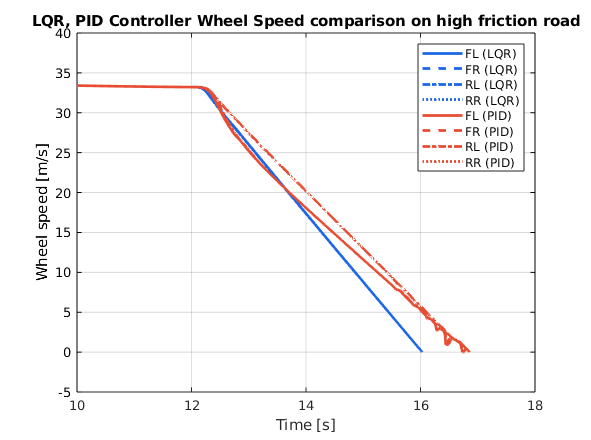
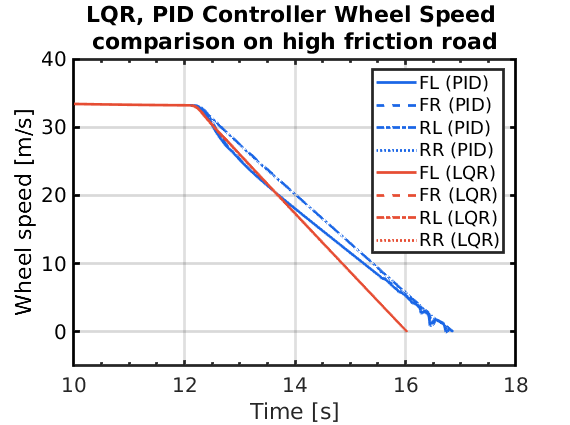
fixed PID,LQR comparison

diff --git a/NIKHIL_DATA/result.m b/NIKHIL_DATA/result.m
@@ -99,39 +99,39 @@ for i = 1:size(files,2)
 end
 
 %% mu-comparison
-% W_Controller_1mu_Straight
-FL_W = data{4}.data(:,1)*0.32;
-FR_W = data{4}.data(:,2)*0.32;
-RL_W = data{4}.data(:,3)*0.32;
-RR_W = data{4}.data(:,4)*0.32;
 % PID_1mu
-FL_PID = data{7}.data(:,1)*0.32;
-FR_PID = data{7}.data(:,2)*0.32;
-RL_PID = data{7}.data(:,3)*0.32;
-RR_PID = data{7}.data(:,4)*0.32;
+FL_PID = data{4}.data(:,1)*0.32;
+FR_PID = data{4}.data(:,2)*0.32;
+RL_PID = data{4}.data(:,3)*0.32;
+RR_PID = data{4}.data(:,4)*0.32;
+% W_Controller_1mu_Straight
+FL_W = data{5}.data(:,1)*0.32;
+FR_W = data{5}.data(:,2)*0.32;
+RL_W = data{5}.data(:,3)*0.32;
+RR_W = data{5}.data(:,4)*0.32;
 
 figure(37);
 
 t  = data{4}.data(:,6);
-plot(t, FL_W, '-','Color', [.1 .4 .9]);
+plot(t, FL_PID, '-','Color', [.1 .4 .9]);
 hold on;
-plot(t, FR_W, '--','Color', [.1 .4 .9]);
-plot(t, RL_W, '-.','Color', [.1 .4 .9]);
-plot(t, RR_W, ':','Color', [.1 .4 .9]);
-t  = data{7}.data(:,6);
-plot(t, FL_PID, '-','Color', [.9 .3 .2]);
-plot(t, FR_PID, '--','Color', [.9 .3 .2]);
-plot(t, RL_PID, '-.','Color', [.9 .3 .2]);
-plot(t, RR_PID, ':','Color', [.9 .3 .2]);
+plot(t, FR_PID, '--','Color', [.1 .4 .9]);
+plot(t, RL_PID, '-.','Color', [.1 .4 .9]);
+plot(t, RR_PID, ':','Color', [.1 .4 .9]);
+t  = data{5}.data(:,6);
+plot(t, FL_W, '-','Color', [.9 .3 .2]);
+plot(t, FR_W, '--','Color', [.9 .3 .2]);
+plot(t, RL_W, '-.','Color', [.9 .3 .2]);
+plot(t, RR_W, ':','Color', [.9 .3 .2]);
 xlabel('Time [s]');
 ylabel('Wheel speed [m/s]');
-legend('FL (LQR)','FR (LQR)','RL (LQR)','RR (LQR)', 'FL (PID)','FR (PID)','RL (PID)','RR (PID)');
+legend('FL (PID)','FR (PID)','RL (PID)','RR (PID)', 'FL (LQR)','FR (LQR)','RL (LQR)','RR (LQR)');
 hold off;
 grid on;
-set(gca, 'YColor', 'k');
 axis([10 18 -5 40]);
+set(gca,'LineWidth',2,'FontSize',15, 'YColor', 'k','XMinorTick','on');
 set(findall(gca, 'Type', 'Line'),'LineWidth',2);
-title('LQR, PID Controller Wheel Speed comparison on high friction road');
+title({'LQR, PID Controller Wheel Speed ';'comparison on high friction road'});
 axis([10 18 -5 40]);
 ax = gca;
 ax.XTick = 10:2:18;
